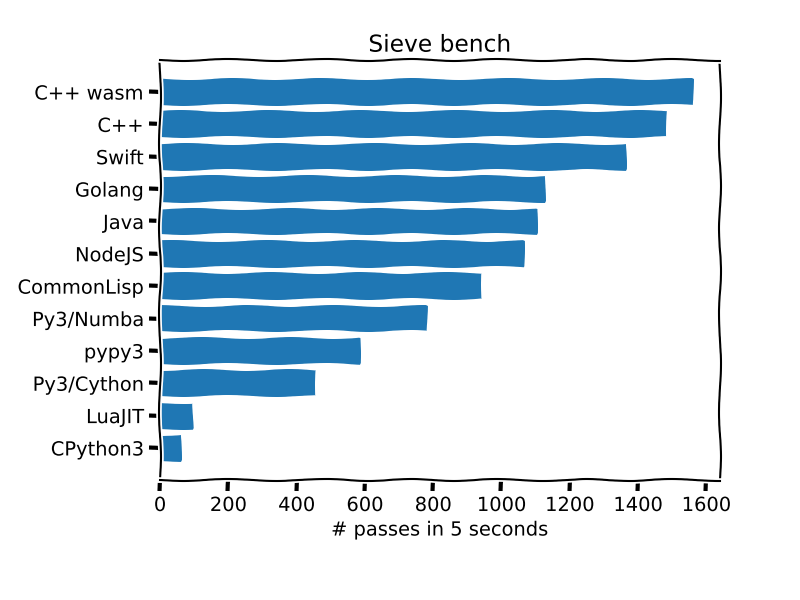
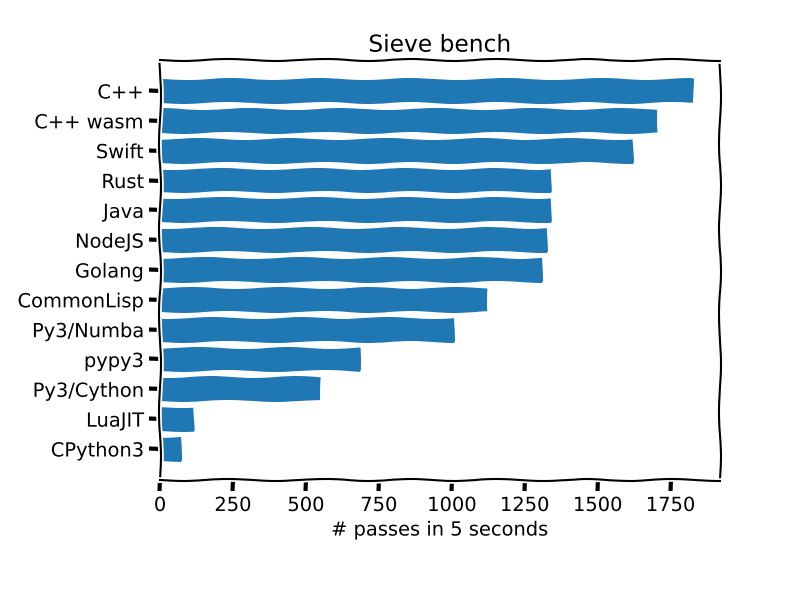
deploy: f1c5bb8f1b1394e54460ba22f98f6c4ba27a5a76

diff --git a/results/index.html b/results/index.html
@@ -280,73 +280,77 @@
 <h1 id="raw-results">Raw Results</h1>
 <p>Code executed on GitHub Actions. Plot and raw results are below.</p>
 <p><img alt="plot" src="../plot1.png" /></p>
-<pre><code>Thu Oct 20 00:56:19 UTC 2022
+<pre><code>Thu Oct 20 00:56:56 UTC 2022
 
 Distributor ID: Ubuntu
 Description:    Ubuntu 20.04.5 LTS
 Release:    20.04
 Codename:   focal
 
-Linux fv-az241-665 5.15.0-1022-azure #27~20.04.1-Ubuntu SMP Mon Oct 17 02:03:50 UTC 2022 x86_64 x86_64 x86_64 GNU/Linux
+Linux fv-az190-462 5.15.0-1020-azure #25~20.04.1-Ubuntu SMP Thu Sep 1 19:20:56 UTC 2022 x86_64 x86_64 x86_64 GNU/Linux
 
 
-1562
-C++ wasm
-emcc (Emscripten gcc/clang-like replacement + linker emulating GNU ld) 3.1.24 (68a9f990429e0bcfb63b1cde68bad792554350a5)
-Copyright (C) 2014 the Emscripten authors (see AUTHORS.txt)
-This is free and open source software under the MIT license.
-There is NO warranty; not even for MERCHANTABILITY or FITNESS FOR A PARTICULAR PURPOSE.
-
-1485
+1828
 C++
 g++ (Ubuntu 9.4.0-1ubuntu1~20.04.1) 9.4.0
 Copyright (C) 2019 Free Software Foundation, Inc.
 This is free software; see the source for copying conditions.  There is NO
 warranty; not even for MERCHANTABILITY or FITNESS FOR A PARTICULAR PURPOSE.
 
-1366
+1707
+C++ wasm
+emcc (Emscripten gcc/clang-like replacement + linker emulating GNU ld) 3.1.24 (68a9f990429e0bcfb63b1cde68bad792554350a5)
+Copyright (C) 2014 the Emscripten authors (see AUTHORS.txt)
+This is free and open source software under the MIT license.
+There is NO warranty; not even for MERCHANTABILITY or FITNESS FOR A PARTICULAR PURPOSE.
+
+1620
 Swift
 Swift version 5.7 (swift-5.7-RELEASE)
 Target: x86_64-unknown-linux-gnu
 
-1127
-Golang
-go version go1.13.8 linux/amd64
-
-1104
+1339
 Java
 openjdk 11.0.16.1 2022-08-12
 OpenJDK Runtime Environment Temurin-11.0.16.1+1 (build 11.0.16.1+1)
 OpenJDK 64-Bit Server VM Temurin-11.0.16.1+1 (build 11.0.16.1+1, mixed mode)
 
-1065
-NodeJS
-v16.18.0
+1339
+Rust
+cargo 1.64.0 (387270bc7 2022-09-16)
 
-943
+1325
+NodeJS
+v16.17.1
+
+1310
+Golang
+go version go1.13.8 linux/amd64
+
+1124
 CommonLisp
 SBCL 2.0.1.debian
 
-783
+1007
 Py3/Numba
 Python 3.8.10
 Numba 0.56.3
 
-585
+684
 pypy3
 Python 3.6.9 (7.3.1+dfsg-4, Apr 22 2020, 05:15:29)
 [PyPy 7.3.1 with GCC 9.3.0]
 
-457
+552
 Py3/Cython
 Cython 0.29.32
 Python 3.8.10
 
-98
+118
 LuaJIT
 LuaJIT 2.1.0-beta3 -- Copyright (C) 2005-2017 Mike Pall. http://luajit.org/
 
-61
+72
 CPython3
 Python 3.8.10
 </code></pre>
